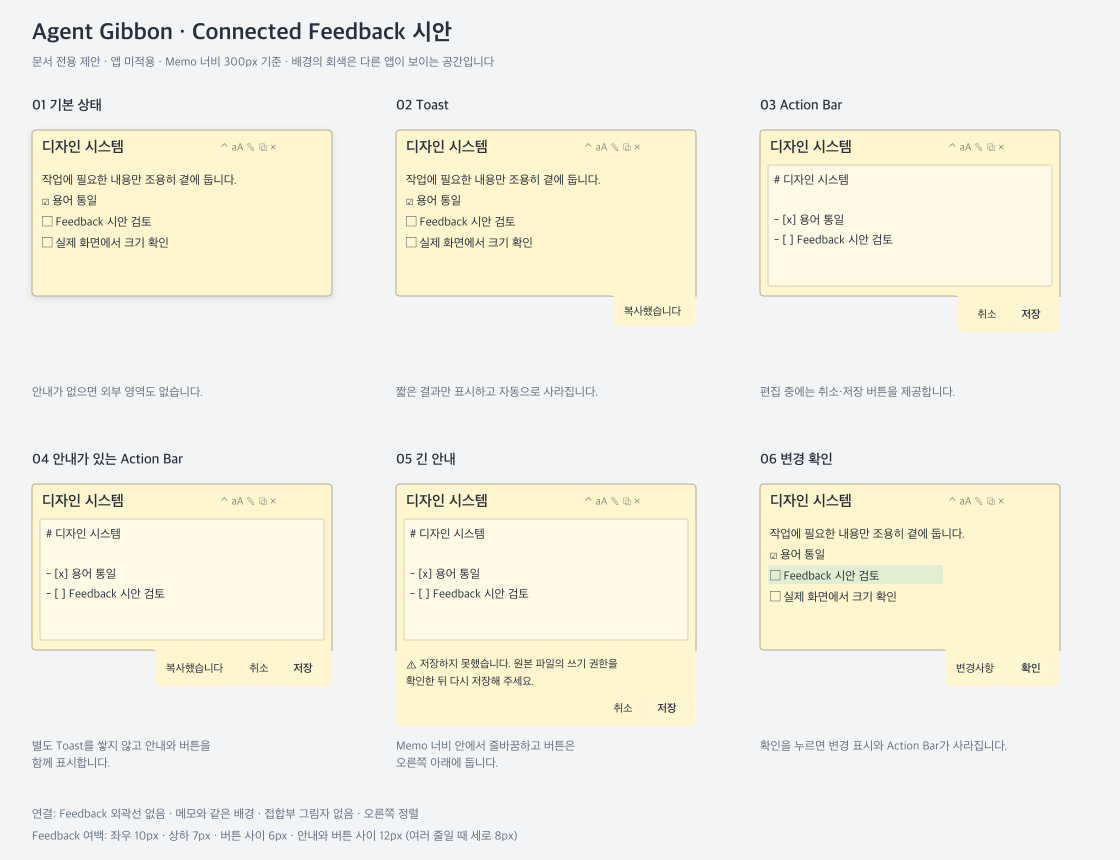
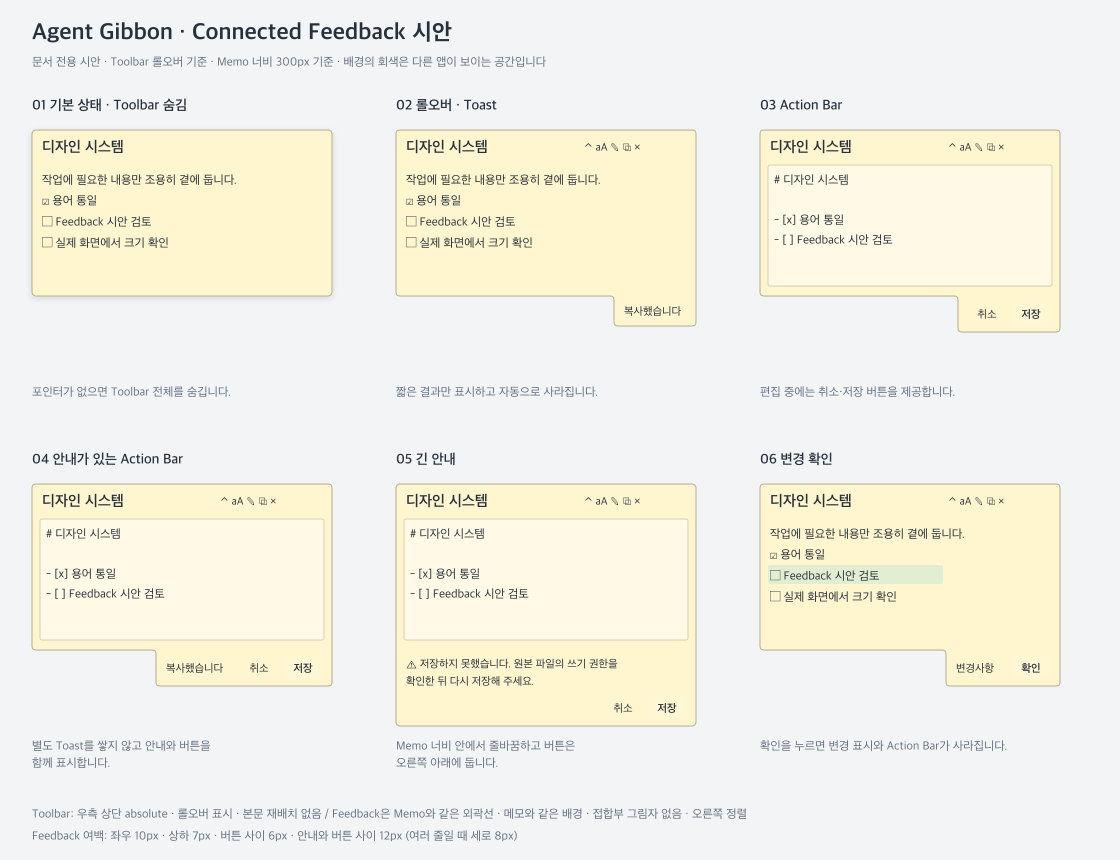
툴바를 롤오버로 표시하고 피드백바 외곽선을 메모에 정렬
툴바를 절대 배치하고 기본 숨김과 키보드 탐색 표시를 적용한다. 피드백바 테두리를 복원하고 표면 너비를 네이티브 창 너비와 맞춰 오른쪽 경계의 어긋남을 제거한다.

디자인 기준과 SVG·PNG 시안을 갱신했다. UI 테스트 50개와 개발 빌드를 통과했고 macOS 실제 캡처에서 두 오른쪽 테두리의 픽셀 좌표 일치를 확인했다. Windows·Intel 실화면은 미검증이다.

diff --git a/ui/style.css b/ui/style.css
@@ -12,8 +12,8 @@
 * { box-sizing: border-box; }
 body { user-select: none; -webkit-user-select: none; cursor: grab; margin: 0; height: 100vh; background: transparent; overflow: hidden; display: flex; flex-direction: column; }
 #viewport { flex: 1; min-height: 0; padding: 3px; overflow: auto; overflow-wrap: anywhere; }
-/* Float reserves only the first lines: later text regains the full width. */
-#controls { position: relative; z-index: 1; float: right; display: flex; gap: 1px; margin: 0 0 2px 4px; padding: 1px; }
+/* Toolbar overlays content without participating in its layout. */
+#controls { position: absolute; top: 3px; right: 3px; z-index: 2; display: flex; gap: 1px; margin: 0; padding: 1px; background: var(--background); border-radius: var(--surface-radius); }
 #content { display: contents; }
 button { display: inline-flex; align-items: center; justify-content: center; width: var(--toolbar-target); height: var(--toolbar-target); padding: 2px; border: 0; border-radius: var(--button-radius); color: inherit; background: transparent; cursor: pointer; }
 button svg { width: var(--icon-size); height: var(--icon-size); fill: none; stroke: currentColor; stroke-width: 1.7; stroke-linecap: round; stroke-linejoin: round; }
@@ -67,7 +67,7 @@ body.folded, body.folded:active { cursor: pointer; }
 #fold-title { font-size: 10px; line-height: 10px; white-space: nowrap; overflow: hidden; text-overflow: ellipsis; font-weight: 400; }
 
 body.folded #viewport { padding: 0 2px; }
-body.folded #controls { margin: 0 0 0 3px; padding: 0; }
+body.folded #controls { top: 0; right: 2px; padding: 0; }
 body.folded #fold-toggle { width: 12px; height: 10px; padding: 0; border-radius: 0; }
 body.folded #fold-toggle svg { width: 10px; height: 10px; }
 
@@ -84,16 +84,16 @@ body.image-note #content img { display: block; width: 100%; height: 100%; object
 body.image-note:not(.folded) #controls { position: absolute; top: 3px; right: 3px; z-index: 2; margin: 0; background: var(--background); border-radius: 4px; }
 body.image-note :is(#font-size, #edit) { display: none; }
 
-/* Shared chrome: discoverable at rest, immediate rollover without activation. */
-body #controls { opacity: .35; }
+/* Hidden at rest; native pointer tracking also supports inactive windows. */
+body #controls { opacity: 0; pointer-events: none; }
 body:hover #controls,
 body.pointer-over #controls,
-body:has(:focus-visible) #controls { opacity: 1; }
+body #controls:has(:focus-visible) { opacity: 1; pointer-events: auto; }
 
 
 /* Shared compact chrome is independent of content font size. */
 #memo-surface { flex: 1; min-height: 0; position: relative; display: flex; flex-direction: column; overflow: hidden; border: var(--surface-border) solid var(--border); border-radius: var(--surface-radius); background: var(--background); }
-#controls { max-width: 100%; flex-wrap: wrap; justify-content: flex-end; }
+#controls { max-width: calc(100% - 6px); flex-wrap: wrap; justify-content: flex-end; }
 #controls button { flex: 0 0 var(--toolbar-target); }
 body.folded #controls button { flex-basis: 12px; }
 #editor { height: calc(100% - 30px); }
@@ -101,7 +101,6 @@ body.folded #controls button { flex-basis: 12px; }
 button:focus-visible { outline: 2px solid var(--foreground); outline-offset: -2px; }
 
 body.editing #viewport { display: flex; flex-direction: column; }
-body.editing #controls { float: none; align-self: flex-end; flex-shrink: 0; }
 body.editing #editor { flex: 1; height: auto; min-height: 0; }
 
 #connected-outline { position: fixed; inset: 0; width: 100%; height: 100%; pointer-events: none; z-index: 4; fill: none; stroke: var(--border); stroke-width: 1px; }

diff --git a/ui/feedback.css b/ui/feedback.css
@@ -2,7 +2,7 @@
 * { box-sizing: border-box; }
 html { overflow-x: hidden; overflow-y: auto; }
 body { margin: 0; cursor: default; background: transparent; }
-#feedback { display: flex; flex-wrap: wrap; align-items: center; justify-content: flex-end; column-gap: 12px; row-gap: 8px; width: max-content; max-width: 100%; padding: var(--feedback-padding); border: var(--surface-border) solid transparent; border-radius: var(--surface-radius); background: var(--background); }
+#feedback { display: flex; flex-wrap: wrap; align-items: center; justify-content: flex-end; column-gap: 12px; row-gap: 8px; width: max-content; max-width: 100%; padding: var(--feedback-padding); border: var(--surface-border) solid var(--border); border-radius: var(--surface-radius); background: var(--background); }
 #message { flex: 1 1 auto; overflow-wrap: anywhere; min-width: 0; white-space: pre-wrap; }
 #message:empty, #actions:empty { display: none; }
 #actions { display: flex; gap: var(--button-gap); margin-left: auto; flex: 0 0 auto; }

diff --git a/ui/feedback.js b/ui/feedback.js
@@ -36,6 +36,8 @@ async function refresh() {
     surface.style.maxWidth = `${state.max_width}px`;
     document.body.style.width = `${state.max_width}px`;
     const rect = surface.getBoundingClientRect();
+    // Fill the rounded native width: max-content can leave a fractional blank edge.
+    surface.style.width = `${Math.ceil(rect.width)}px`;
     document.body.style.width = `${Math.ceil(rect.width)}px`;
     const layout = await invoke('layout_feedback', { width: Math.ceil(rect.width), height: Math.ceil(rect.height) });
     surface.dataset.edge = layout.edge;

diff --git a/docs/design-system.md b/docs/design-system.md
@@ -236,7 +236,7 @@ Toast 한 줄 높이는 위 제안값에서 약 25px, Action Bar는 약 32px가 
 
 ![편집 중 메모와 연결된 Action Bar의 외곽선](design/outline-editor-macos.png)
 
-### Feedback 테두리 제거 — 확정 (2026-10-28)
+### Feedback 테두리 제거 — 이전 기준 (2026-10-28, 아래 복원 기준으로 대체)
 
 - 사용자 요청에 따라 취소·저장 영역을 포함한 Feedback의 외곽선 색을 제거한다. Toast와 Action Bar 모두 투명 테두리를 사용하며 크기·여백·배경·둥근 모서리는 유지한다.
 - 이 기준은 위의 기존 Feedback 1px 색상 외곽선 기준보다 우선한다. 메모와 Editor의 테두리, 버튼의 키보드 포커스 표시는 유지한다.
@@ -245,3 +245,24 @@ Toast 한 줄 높이는 위 제안값에서 약 25px, Action Bar는 약 32px가 
 - 개발 빌드 통과 후 macOS Apple Silicon 개발 앱의 실제 편집 화면에서 Feedback 외곽선 제거를 확인했다. Memo 외곽선은 이전 SVG 표시 보정으로 복원된 것이며 이번 변경에서 추가하지 않았다.
 
 ![Feedback 테두리 제거 후 실제 편집 화면](design/feedback-borderless-macos.png)
+
+### Toolbar 롤오버 — 확정 (2026-10-28)
+
+- Toolbar 전체(DEV Badge 포함)는 기본 상태에서 보이지 않으며 클릭을 가로채지 않는다. 메모에 포인터를 올리면 표시하고 벗어나면 숨긴다. 키보드로 Toolbar 버튼을 탐색하는 동안에는 조작 가능하도록 표시한다. Editor의 입력 포커스만으로는 표시하지 않는다.
+- 텍스트·이미지·편집 상태 모두 Memo Surface 우측 상단에 absolute로 겹쳐 표시한다. 본문에 별도 공간을 예약하거나 줄바꿈을 바꾸지 않으며, 표시 중 배경은 Memo 색상을 따른다. 좁은 창에서는 버튼을 줄바꿈한다. 접힌 상태의 펼치기 버튼에도 같은 숨김 규칙을 적용한다.
+- 기본 상태와 롤오버 상태를 SVG·PNG 시안에 반영했다. 이전 실화면 이미지는 변경 전 기록이다.
+- 검증: UI 테스트 50개와 개발 빌드 통과. Headless Chromium에서 기본 숨김·클릭 비활성화·absolute 배치·포인터 표시·본문 크기 불변·Editor 포커스 시 숨김·Toolbar 키보드 포커스 시 표시를 확인했다. SVG를 PNG로 렌더링해 확인했다. macOS WebView의 실제 포인터 조작과 Windows 실화면은 미검증이다.
+
+### Feedback 외곽선 복원 — 확정 (2026-10-28)
+
+- 사용자 화면 피드백에 따라 Toast와 Action Bar의 바깥 테두리를 Memo와 같은 색상·1px 두께로 표시한다. 위의 투명 테두리 기준을 대체한다.
+- 메모 아래에 붙을 때는 좌우·아래 외곽선을, 위에 붙을 때는 좌우·위 외곽선을 표시한다. 맞닿는 면에는 구분선을 추가하지 않으며 기존 배경·여백·둥근 모서리를 유지한다.
+- SVG·PNG의 연결된 외곽선을 복원했다. 이전 테두리 제거 실화면은 과거 기록이다.
+- 검증: 개발 빌드 통과, SVG→PNG 렌더링 및 외곽선 시각 확인 완료. 편집 중 메모가 없음을 CLI로 확인한 뒤 개발 앱을 재시작했다. 실제 WebView 외곽선·Windows 실화면은 미검증이다.
+
+### Feedback 실제 외곽선 정렬 — 확정 (2026-10-28)
+
+- 실제 macOS 캡처에서 Feedback의 오른쪽 테두리가 Memo보다 물리 2px(해당 Retina 화면에서 논리 1px) 안쪽인 것을 확인했다.
+- 창 좌표에 임의의 +1px를 더하는 보정을 제거하고, Feedback 표면의 너비를 네이티브 창에 전달한 올림 너비와 동일하게 고정한다. `max-content`의 소수점 너비와 창 정수 너비 사이 빈 공간을 없애어 실제 테두리를 정렬한다.
+- 메모와 Feedback의 오른쪽 경계를 맞추는 것이 기준이다. [정렬 시안 SVG](design/feedback-offset.svg) · [PNG](design/feedback-offset.png).
+- 검증: UI 테스트 50개·개발 빌드 통과. Chromium에서 소수 너비 101.09375px를 네이티브 창에 전달하는 102px로 채우는 것을 확인했다. macOS Retina 개발 앱을 재시작한 뒤 실제 캡처의 Memo와 Feedback 오른쪽 테두리가 모두 x=606~607 물리 픽셀에 그려짐을 확인했다(캡처 내부 좌표). 수정 전에는 두 테두리에 물리 2px 차이가 있었다. 사용자도 실제 화면 정렬을 확인했다. Windows·Intel 실화면은 미검증이다.
